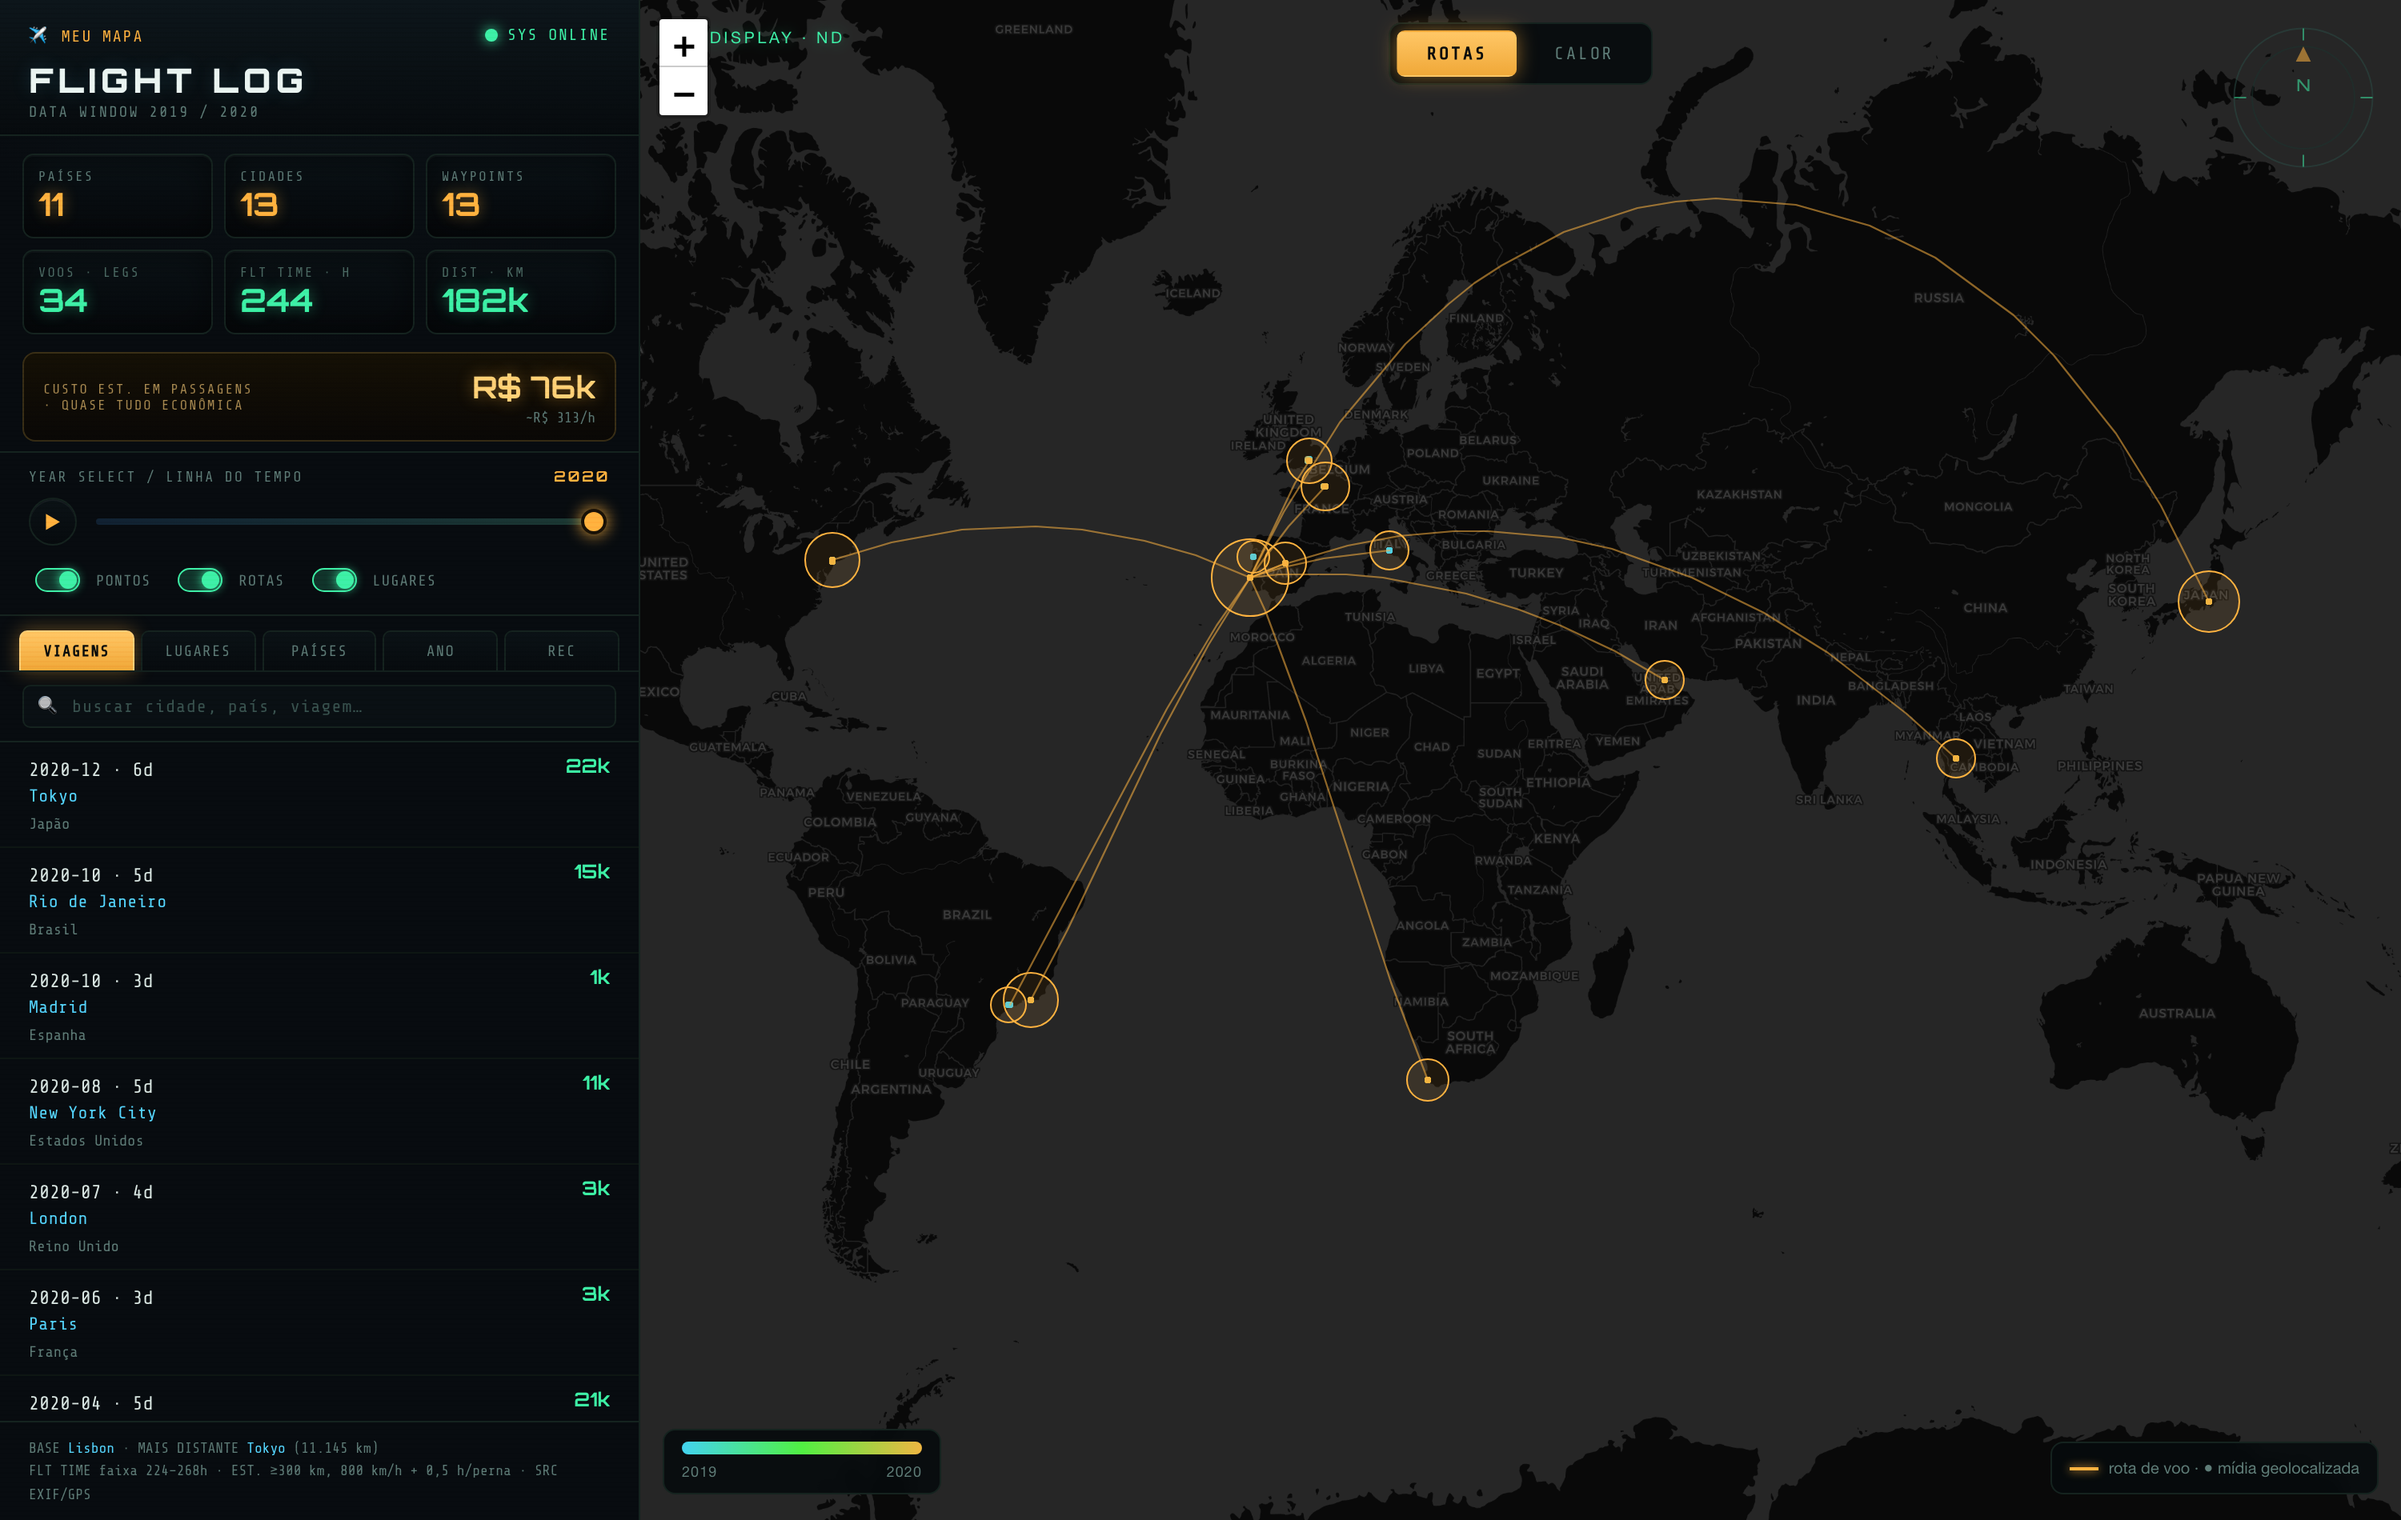
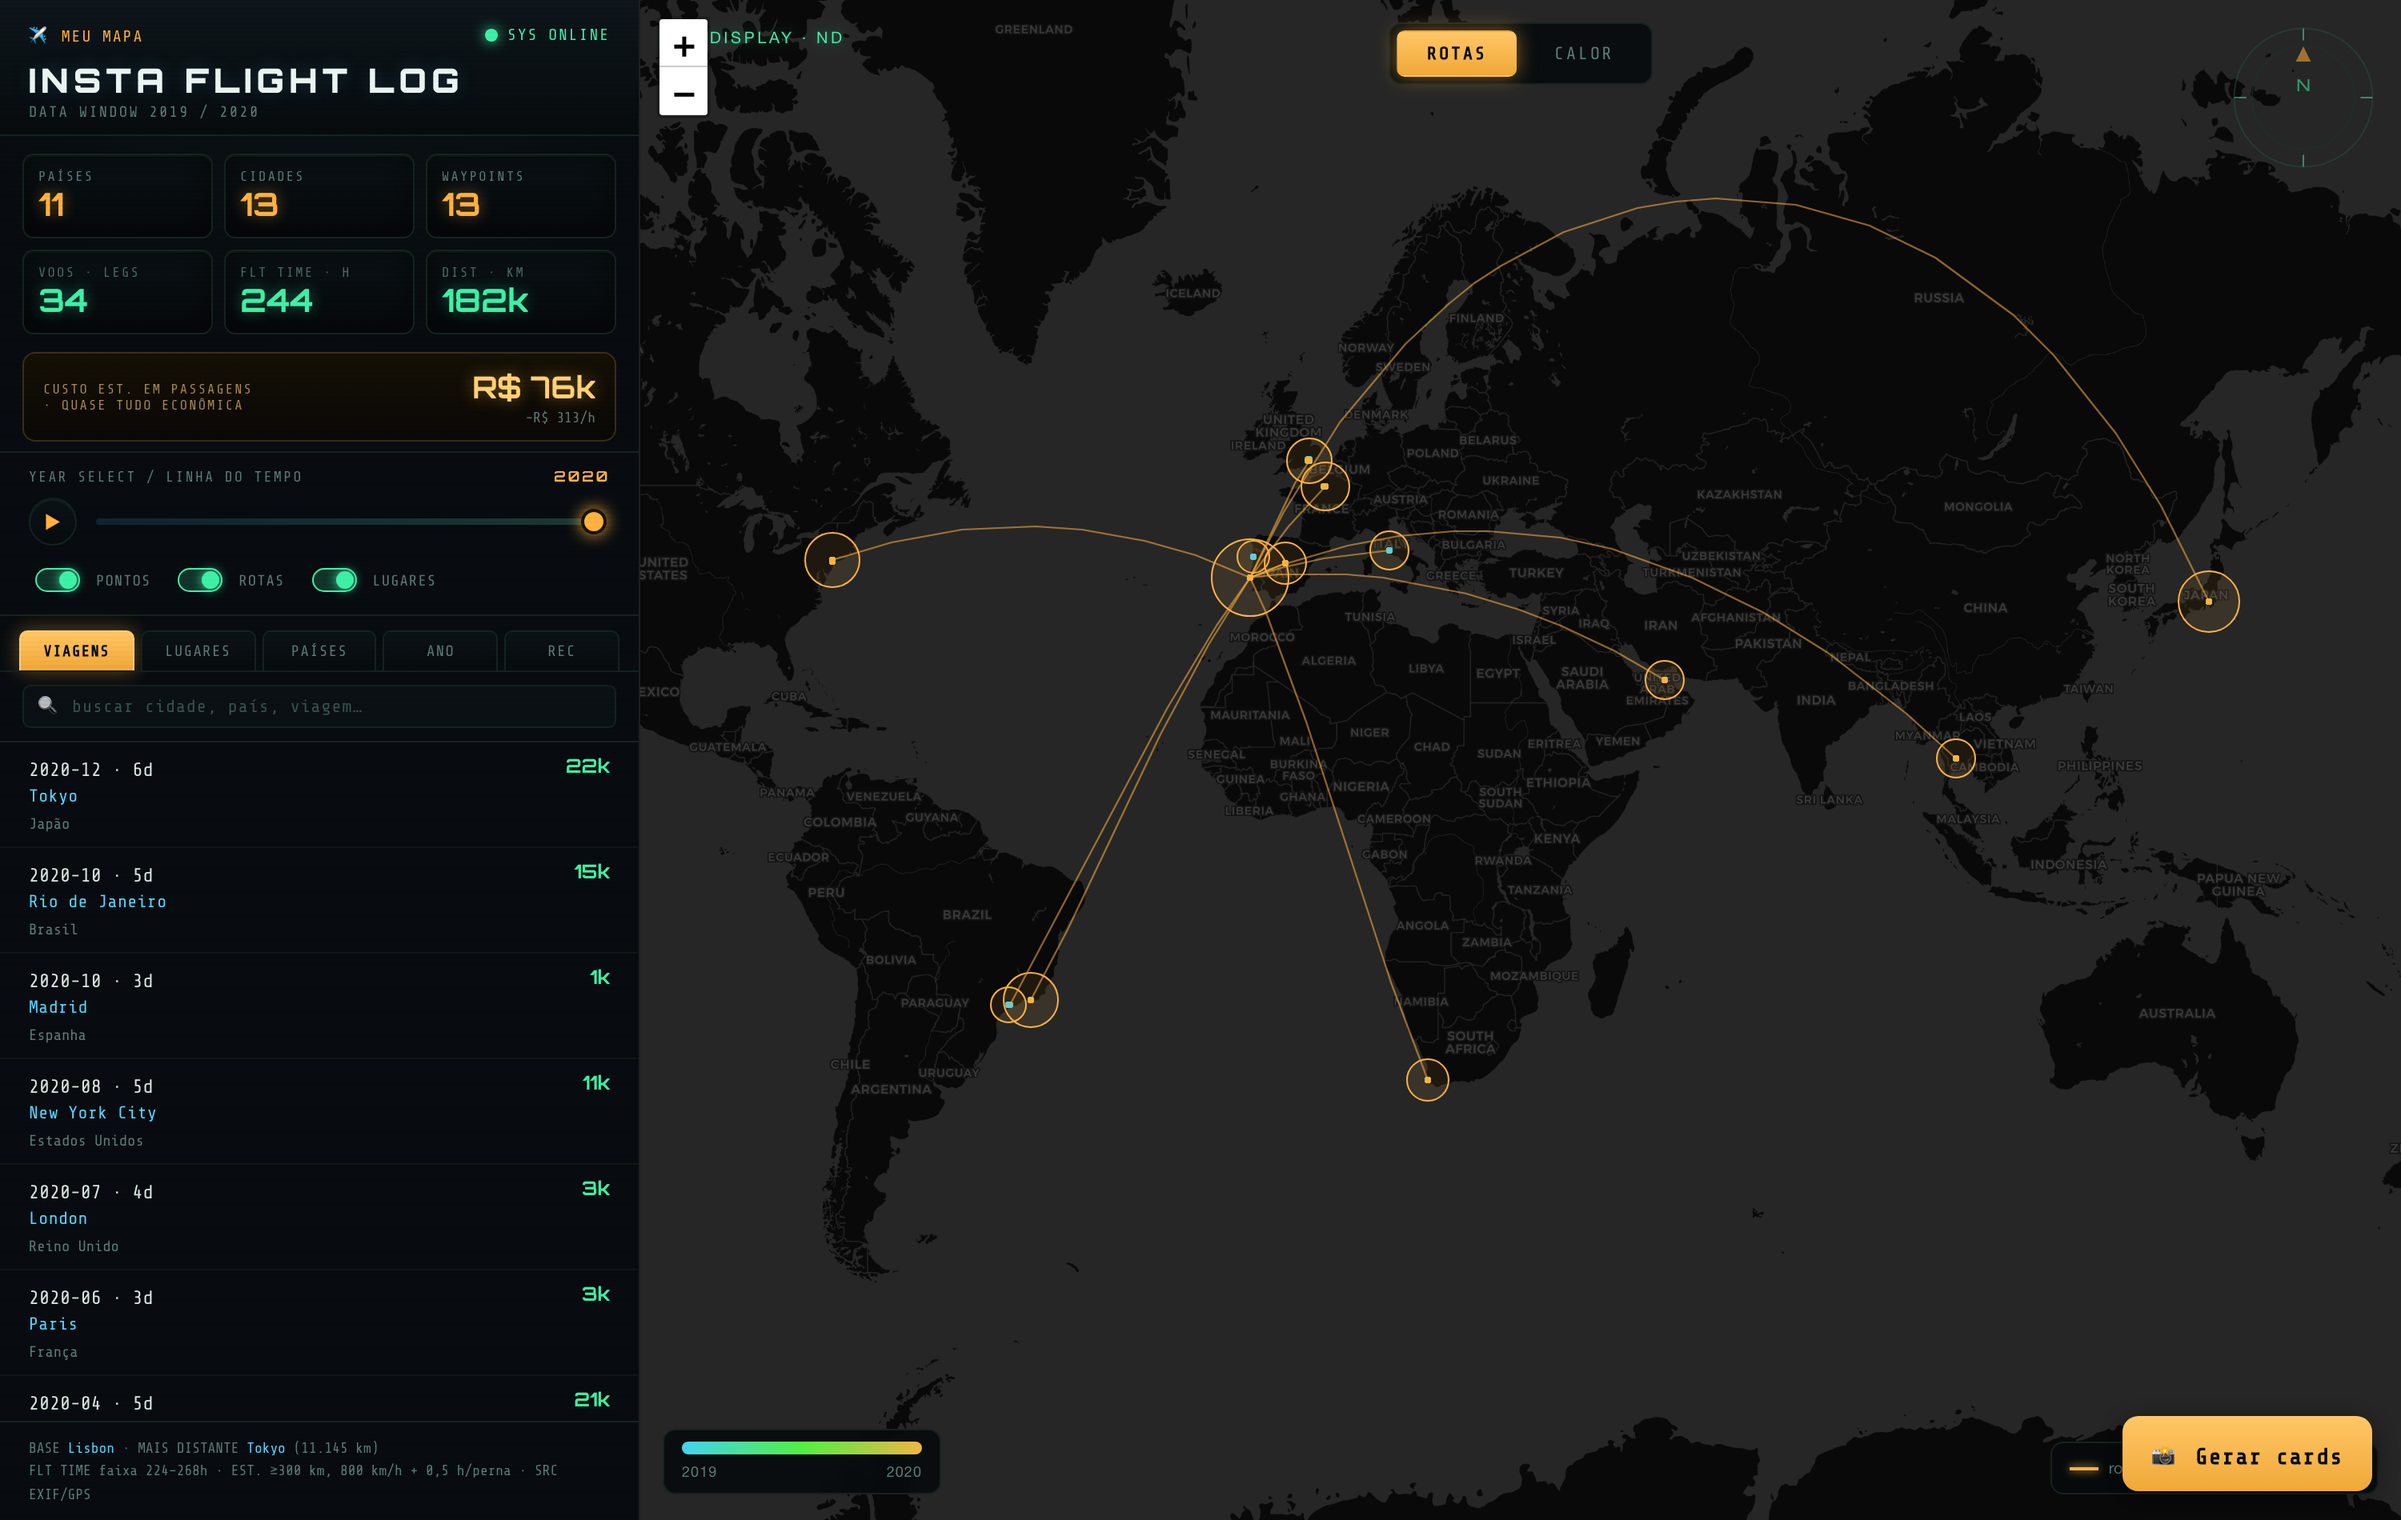
Renomeia o projeto para Insta Flight Log (marca, textos, URLs, screenshots)

Changed region(s): [[0.868, 0.9316, 0.992, 0.9937], [0.0, 0.0311, 0.186, 0.0621]]

diff --git a/docs/index.html b/docs/index.html
@@ -1,6 +1,6 @@
 <!doctype html><html lang="pt-BR"><head><meta charset="utf-8">
 <meta name="viewport" content="width=device-width,initial-scale=1">
-<title>FLIGHT LOG — mapa de viagens do Instagram</title>
+<title>Insta Flight Log — mapa de viagens do Instagram</title>
 <link rel="stylesheet" href="vendor/leaflet.css"/>
 <link rel="preconnect" href="https://fonts.googleapis.com"><link rel="preconnect" href="https://fonts.gstatic.com" crossorigin>
 <link href="https://fonts.googleapis.com/css2?family=Orbitron:wght@500;700;900&family=Share+Tech+Mono&display=swap" rel="stylesheet">
@@ -109,14 +109,14 @@ h1{font-family:'Orbitron',sans-serif;font-weight:900;font-size:21px;letter-spaci
 </style></head><body>
 
 <div id="uploader"><div class="card">
-  <div class="logo">&#9992;&#65039; FLIGHT LOG</div>
+  <div class="logo">&#9992;&#65039; INSTA FLIGHT LOG</div>
   <h1>Seu mapa de viagens do Instagram</h1>
   <p>Arraste o(s) arquivo <b>.zip</b> do seu backup do Instagram (formato <b>JSON</b>). Tudo roda aqui no seu navegador &mdash; <b>nada &eacute; enviado</b> para nenhum servidor.</p>
   <label id="drop"><input type="file" id="file" accept=".zip" multiple hidden>
     <span class="big">Clique ou arraste o(s) .zip aqui</span>
     <span>o processamento acontece 100% no seu dispositivo</span></label>
   <div id="status"></div>
-  <p class="muted">N&atilde;o tem o backup? <a href="https://github.com/eduardogama-zero/insta-travel-map/blob/main/GUIA.md" target="_blank">veja o passo a passo</a> &middot; s&oacute; quer ver como fica? <a id="demoLink" href="#">ver demonstra&ccedil;&atilde;o</a></p>
+  <p class="muted">N&atilde;o tem o backup? <a href="https://github.com/eduardogama-zero/insta-flight-log/blob/main/GUIA.md" target="_blank">veja o passo a passo</a> &middot; s&oacute; quer ver como fica? <a id="demoLink" href="#">ver demonstra&ccedil;&atilde;o</a></p>
 </div></div>
 
 
@@ -124,7 +124,7 @@ h1{font-family:'Orbitron',sans-serif;font-weight:900;font-size:21px;letter-spaci
  <div id="side">
   <header>
     <div class="hdr-top"><span class="reg">&#9992;&#65039; <span id="hHandle"></span></span><span class="sys"><i class="led"></i>SYS ONLINE</span></div>
-    <h1>FLIGHT LOG</h1>
+    <h1>INSTA FLIGHT LOG</h1>
     <div class="sub">DATA WINDOW <span id="hWindow"></span></div>
   </header>
   <div class="hero" id="hero"></div>

diff --git a/docs/cards.js b/docs/cards.js
@@ -21,14 +21,14 @@ function roundRect(c,x,y,w,h,r){c.beginPath();c.moveTo(x+r,y);c.arcTo(x+w,y,x+w,
 function T(c,t,x,y,font,color,align="left"){c.font=font;c.fillStyle=color;c.textAlign=align;c.fillText(t,x,y);}
 
 function header(c,handle){
-  T(c,"✈  FLIGHT LOG",60,90,'700 34px Orbitron, sans-serif',CL.amber,"left");
+  T(c,"✈  INSTA FLIGHT LOG",60,90,'700 34px Orbitron, sans-serif',CL.amber,"left");
   T(c,handle||"",CARD_W-60,90,'26px "Share Tech Mono", monospace',CL.mut,"right");
   c.strokeStyle=CL.line;c.lineWidth=2;c.beginPath();c.moveTo(60,120);c.lineTo(CARD_W-60,120);c.stroke();
 }
 function footer(c){
   c.strokeStyle=CL.line;c.lineWidth=2;c.beginPath();c.moveTo(60,CARD_H-90);c.lineTo(CARD_W-60,CARD_H-90);c.stroke();
-  T(c,"gerado com insta-travel-map",60,CARD_H-52,'22px "Share Tech Mono", monospace',CL.mut,"left");
-  T(c,"eduardogama-zero.github.io/insta-travel-map",CARD_W-60,CARD_H-52,'22px "Share Tech Mono", monospace',CL.cyan,"right");
+  T(c,"gerado com Insta Flight Log",60,CARD_H-52,'22px "Share Tech Mono", monospace',CL.mut,"left");
+  T(c,"eduardogama-zero.github.io/insta-flight-log",CARD_W-60,CARD_H-52,'22px "Share Tech Mono", monospace',CL.cyan,"right");
 }
 function bg(c){c.fillStyle=CL.bg;c.fillRect(0,0,CARD_W,CARD_H);
   const g=c.createRadialGradient(CARD_W/2,CARD_H*0.35,200,CARD_W/2,CARD_H/2,CARD_H*0.75);
@@ -46,7 +46,7 @@ function cardResumo(c,D){
   bg(c);header(c,D.handle);
   const cu=D.cum[D.ymax];
   c.save();c.shadowColor="rgba(87,215,255,.25)";c.shadowBlur=24;
-  T(c,"FLIGHT LOG",60,300,'900 120px Orbitron, sans-serif',CL.ink,"left");c.restore();
+  T(c,"INSTA FLIGHT LOG",60,300,'900 72px Orbitron, sans-serif',CL.ink,"left");c.restore();
   T(c,"MEU MAPA DE VIAGENS",62,360,'30px "Share Tech Mono", monospace',CL.green,"left");
   T(c,`PERÍODO ${D.first?D.first.slice(0,4):D.ymin}–${D.ymax}`,62,410,'26px "Share Tech Mono", monospace',CL.mut,"left");
   const x0=60,w=(CARD_W-120-30)/2,h=250,gap=30,y0=480;

diff --git a/assets/template.html b/assets/template.html
@@ -1,6 +1,6 @@
 <!doctype html><html lang="pt-BR"><head><meta charset="utf-8">
 <meta name="viewport" content="width=device-width,initial-scale=1">
-<title>FLIGHT LOG — __HANDLE__</title>
+<title>INSTA FLIGHT LOG — __HANDLE__</title>
 <link rel="stylesheet" href="https://unpkg.com/leaflet@1.9.4/dist/leaflet.css"/>
 <script src="https://unpkg.com/leaflet@1.9.4/dist/leaflet.js"></script>
 <script>__HEATJS__</script>
@@ -83,7 +83,7 @@ h1{font-family:'Orbitron',sans-serif;font-weight:900;font-size:21px;letter-spaci
  <div id="side">
   <header>
     <div class="hdr-top"><span class="reg">&#9992;&#65039; __HANDLE__</span><span class="sys"><i class="led"></i>SYS ONLINE</span></div>
-    <h1>FLIGHT LOG</h1>
+    <h1>INSTA FLIGHT LOG</h1>
     <div class="sub">DATA WINDOW __FIRST__ / __LAST__</div>
   </header>
   <div class="hero" id="hero"></div>

diff --git a/docs/app.js b/docs/app.js
@@ -1,4 +1,4 @@
-/* insta-travel-map — pipeline no navegador (sem servidor, sem instalação).
+/* insta-flight-log — pipeline no navegador (sem servidor, sem instalação).
    Porta a lógica do CLI Python para JS. Nada sai do navegador. */
 const ARGS = { currency:"R$", rate_dom:0.65, rate_intl:0.42, rate_intl_exec:1.40, exec_legs:0, trip_gap:21 };
 let CITIES=null, CC2=null;

diff --git a/README.md b/README.md
@@ -1,4 +1,4 @@
-# insta-travel-map ✈
+# Insta Flight Log ✈
 
 Transforma o **backup do seu Instagram** num painel de viagens interativo — mapa de rotas de voo, mapa de calor, linha do tempo, estatísticas (países, cidades, horas de voo, km, custo estimado) e uma lista de viagens reconstruídas.
 
@@ -6,7 +6,7 @@ Transforma o **backup do seu Instagram** num painel de viagens interativo — ma
 
 ## ▶ Use direto no navegador — sem instalar nada
 
-### 👉 [**eduardogama-zero.github.io/insta-travel-map**](https://eduardogama-zero.github.io/insta-travel-map/)
+### 👉 [**eduardogama-zero.github.io/insta-flight-log**](https://eduardogama-zero.github.io/insta-flight-log/)
 
 Abra o link, **arraste o `.zip`** do seu backup do Instagram e pronto. O processamento acontece **inteiro no seu navegador** — o arquivo não é enviado para servidor nenhum. Zero instalação, funciona no Mac, Windows e celular.
 
@@ -46,8 +46,8 @@ O Instagram grava, em parte das mídias, a coordenada GPS no EXIF (`your_instagr
 Precisa de **Python 3.8+**.
 
 ```bash
-git clone https://github.com/eduardogama-zero/insta-travel-map.git
-cd insta-travel-map
+git clone https://github.com/eduardogama-zero/insta-flight-log.git
+cd insta-flight-log
 pip install -r requirements.txt
 ```
 

diff --git a/GUIA.md b/GUIA.md
@@ -46,13 +46,13 @@ Copie e cole **um comando de cada vez** na janela que você abriu, apertando Ent
 
 Baixar a ferramenta:
 ```bash
-git clone https://github.com/eduardogama-zero/insta-travel-map.git
+git clone https://github.com/eduardogama-zero/insta-flight-log.git
 ```
 > Se disser que `git` não existe: no Mac, digite `git` e o sistema oferece instalar; no Windows, instale de [git-scm.com](https://git-scm.com/download/win). Alternativa sem git: no GitHub, botão verde **Code → Download ZIP**, e descompacte.
 
 Entrar na pasta:
 ```bash
-cd insta-travel-map
+cd insta-flight-log
 ```
 
 Criar um "ambiente" isolado e instalar a dependência:
